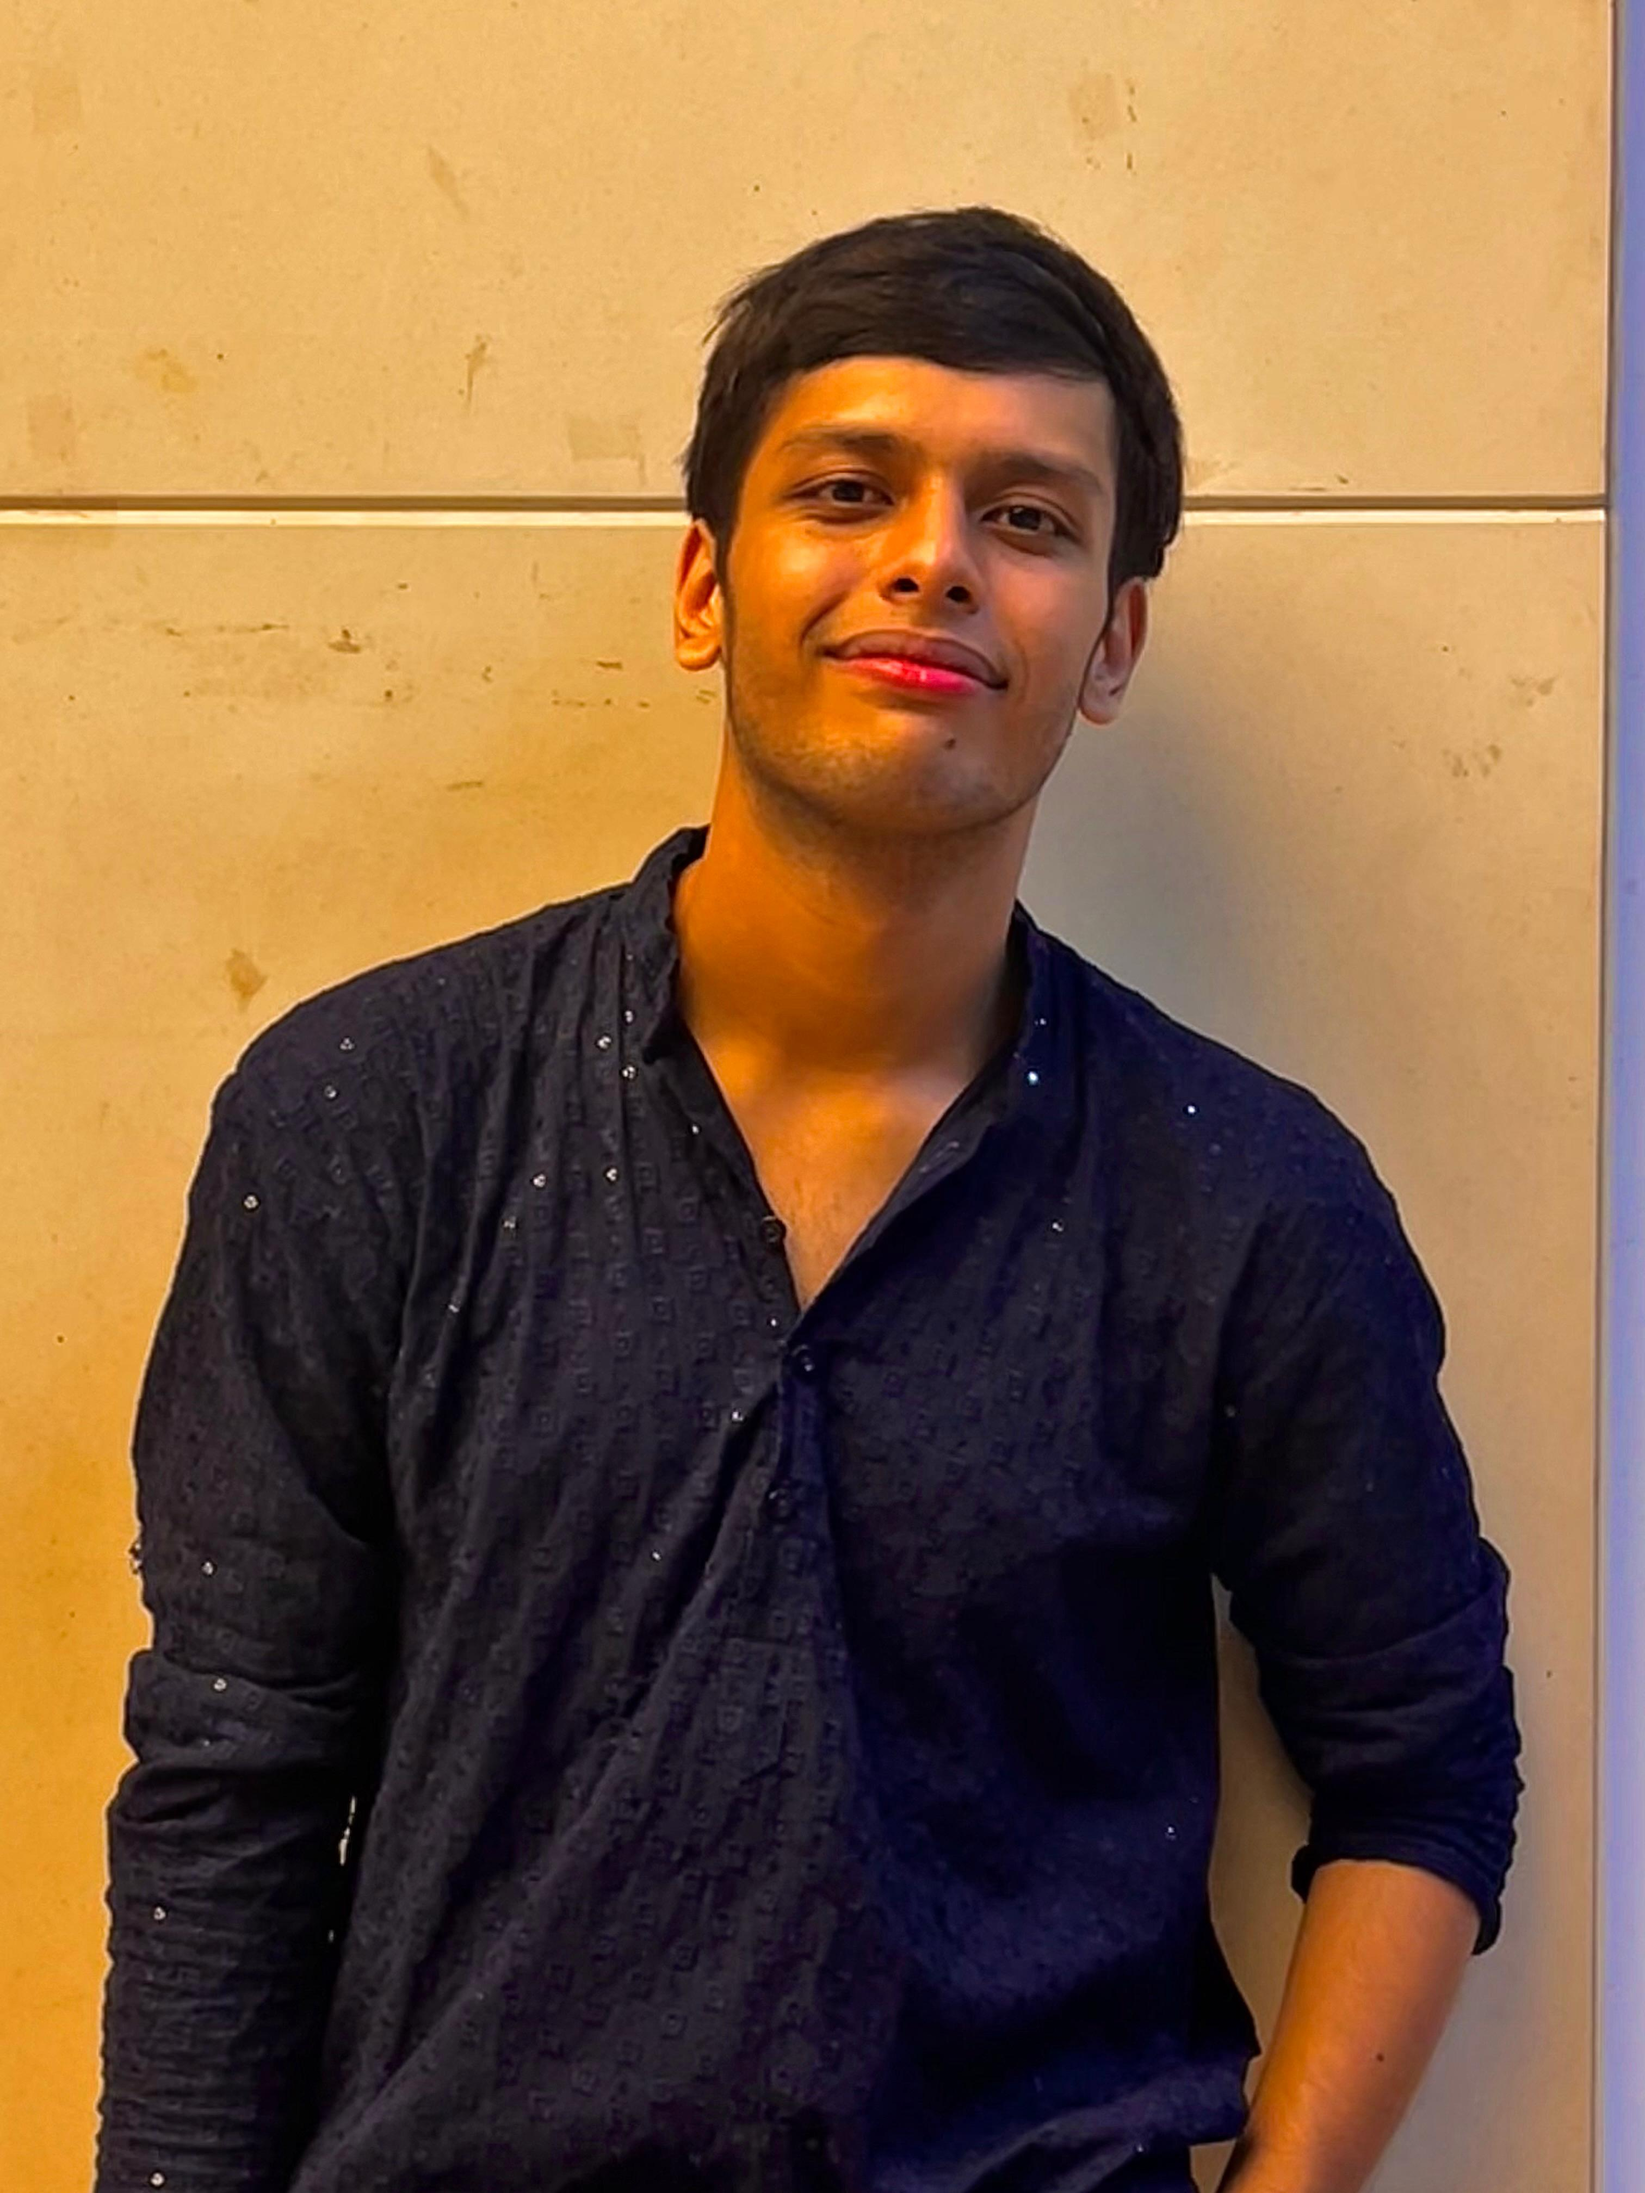
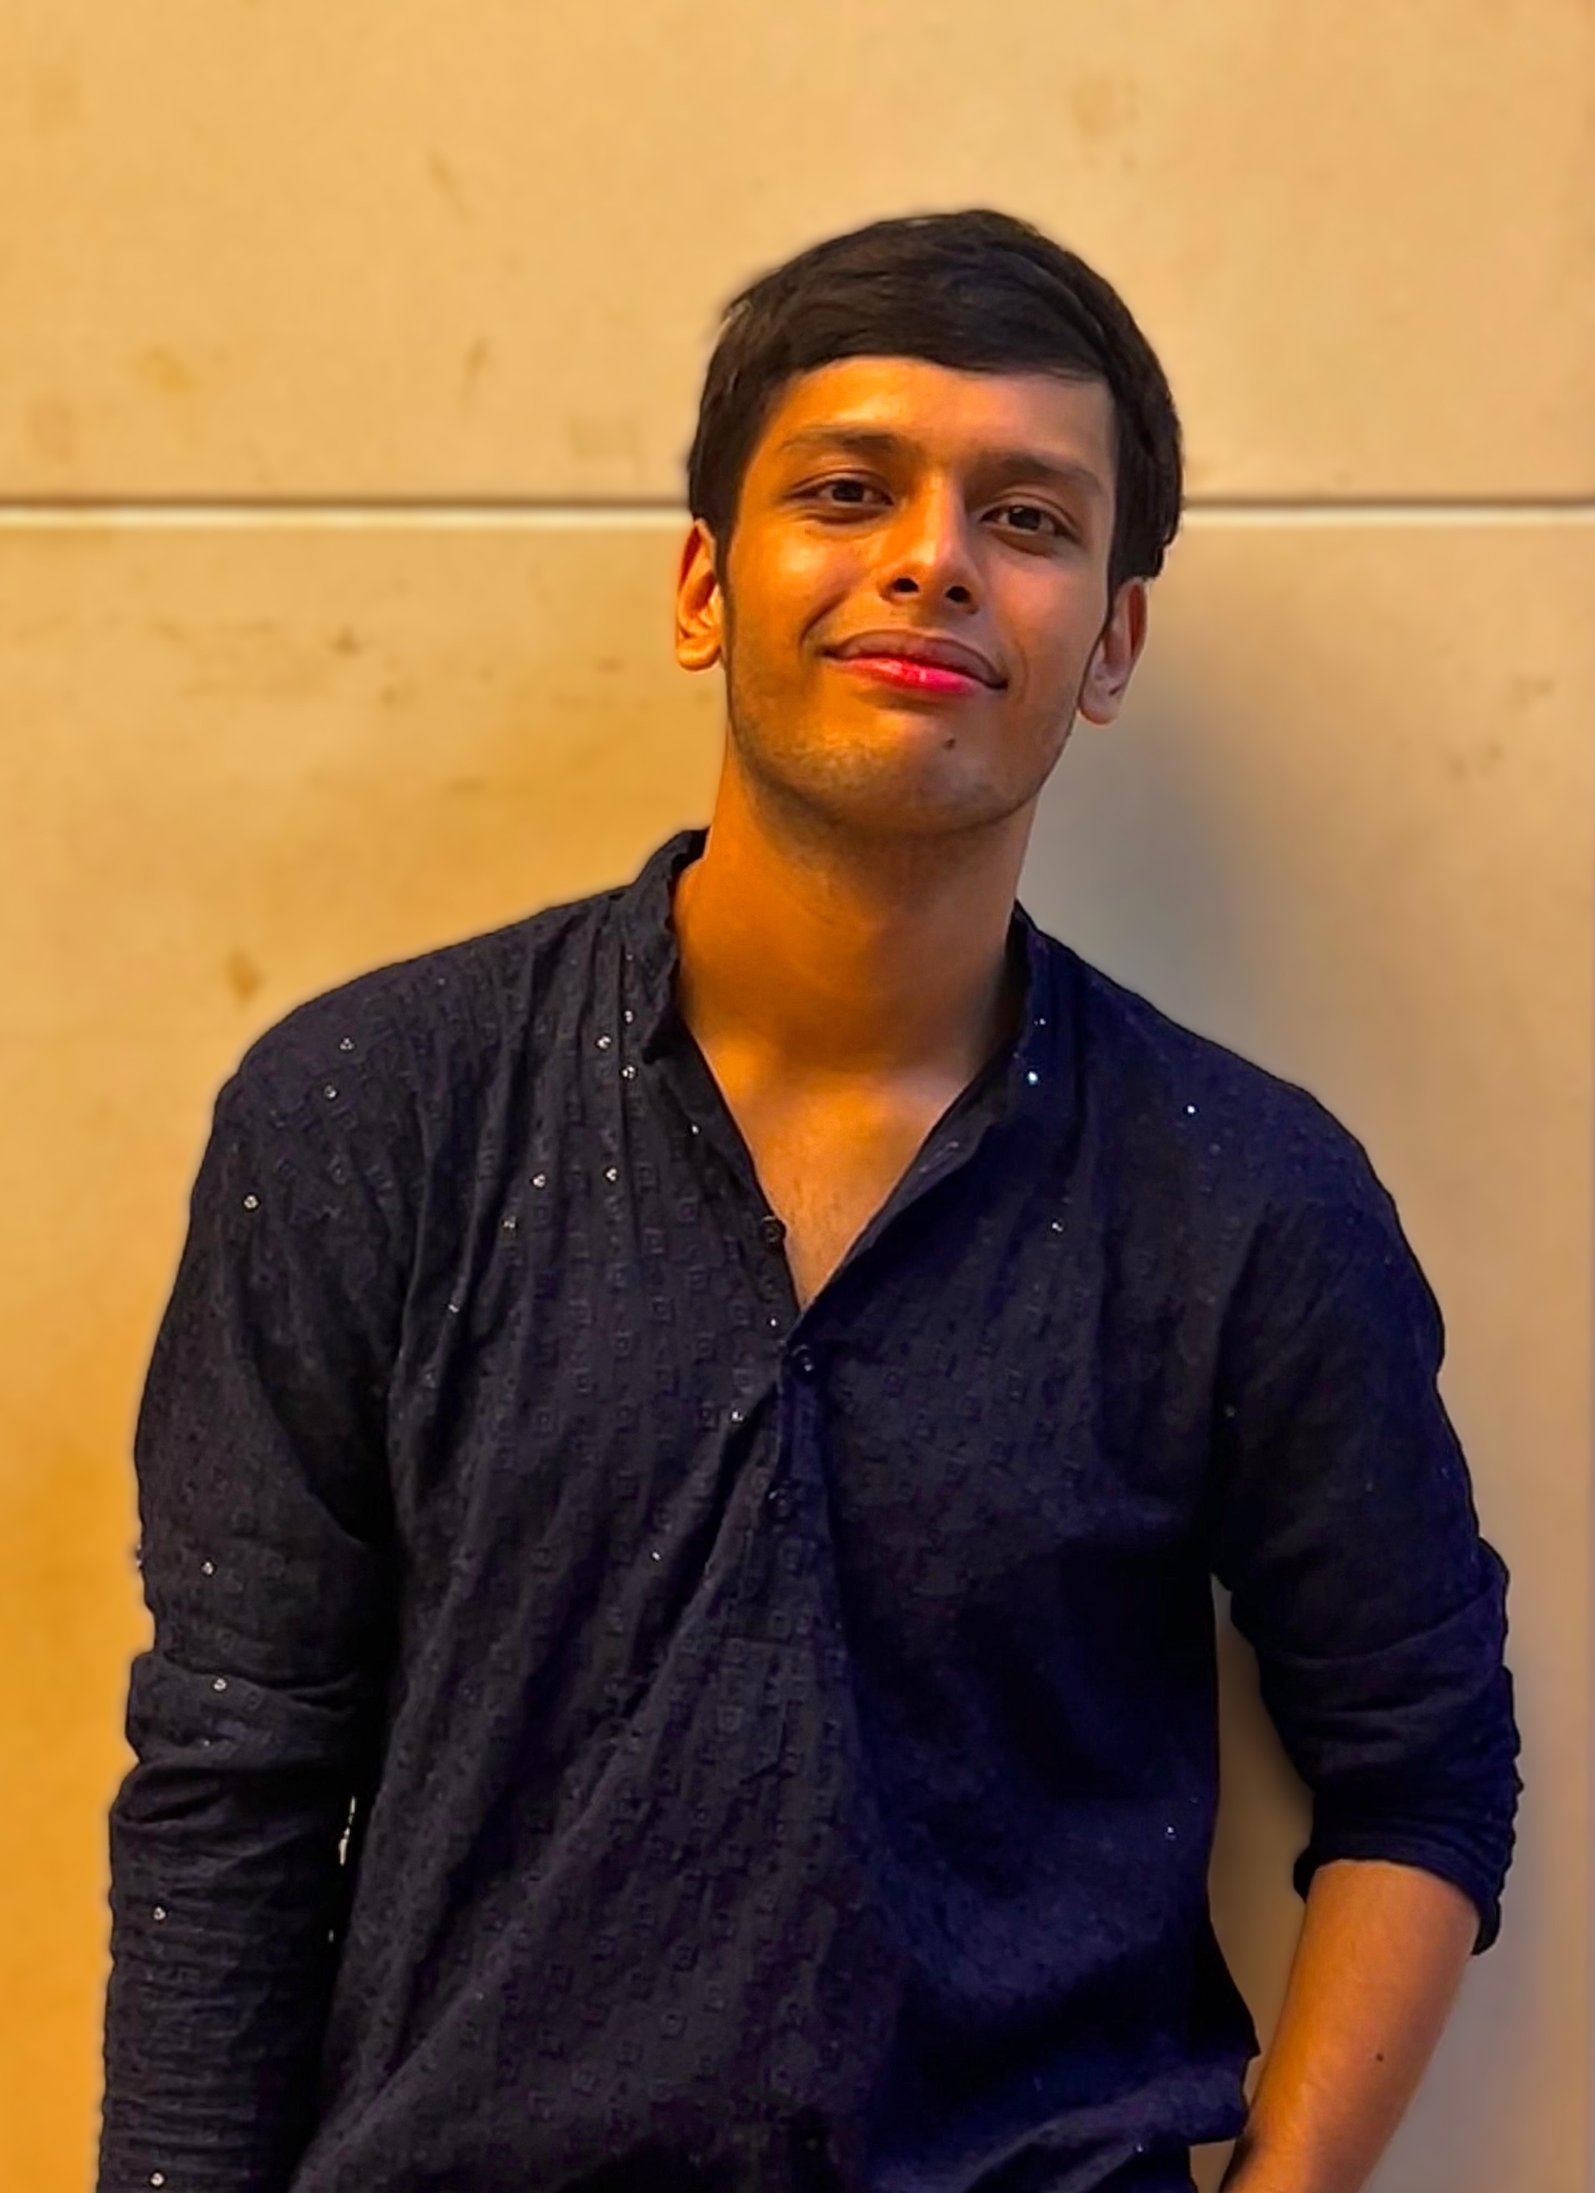
Fix image case issue

diff --git a/index.html b/index.html
@@ -23,7 +23,7 @@
             <div class="hero-container">
                 <div class="hero-left">
                     <div class="hero-image">
-                        <img src= "shaun the sheep.jpg" alt = "Profile Image">
+                        <img src= "profile.jpeg" alt = "Deeptanshu Banik">
                     </div>
 
                     <h1 class="hero-name">

diff --git a/style.css b/style.css
@@ -62,12 +62,11 @@ section {
 /* Image */
 
 .hero-image img {
-    width: 300px;
-    height: 300px;
+    width: 320px;
+    height: 380px;
     object-fit: cover;
-    border-radius: 24px;
-    margin-bottom: 25px;
-    box-shadow: 0 30px 70px rgba(0, 0, 0, 0.6);
+    object-position: 40% center;
+    border-radius: 20px;
 }
 
 /* Name */
